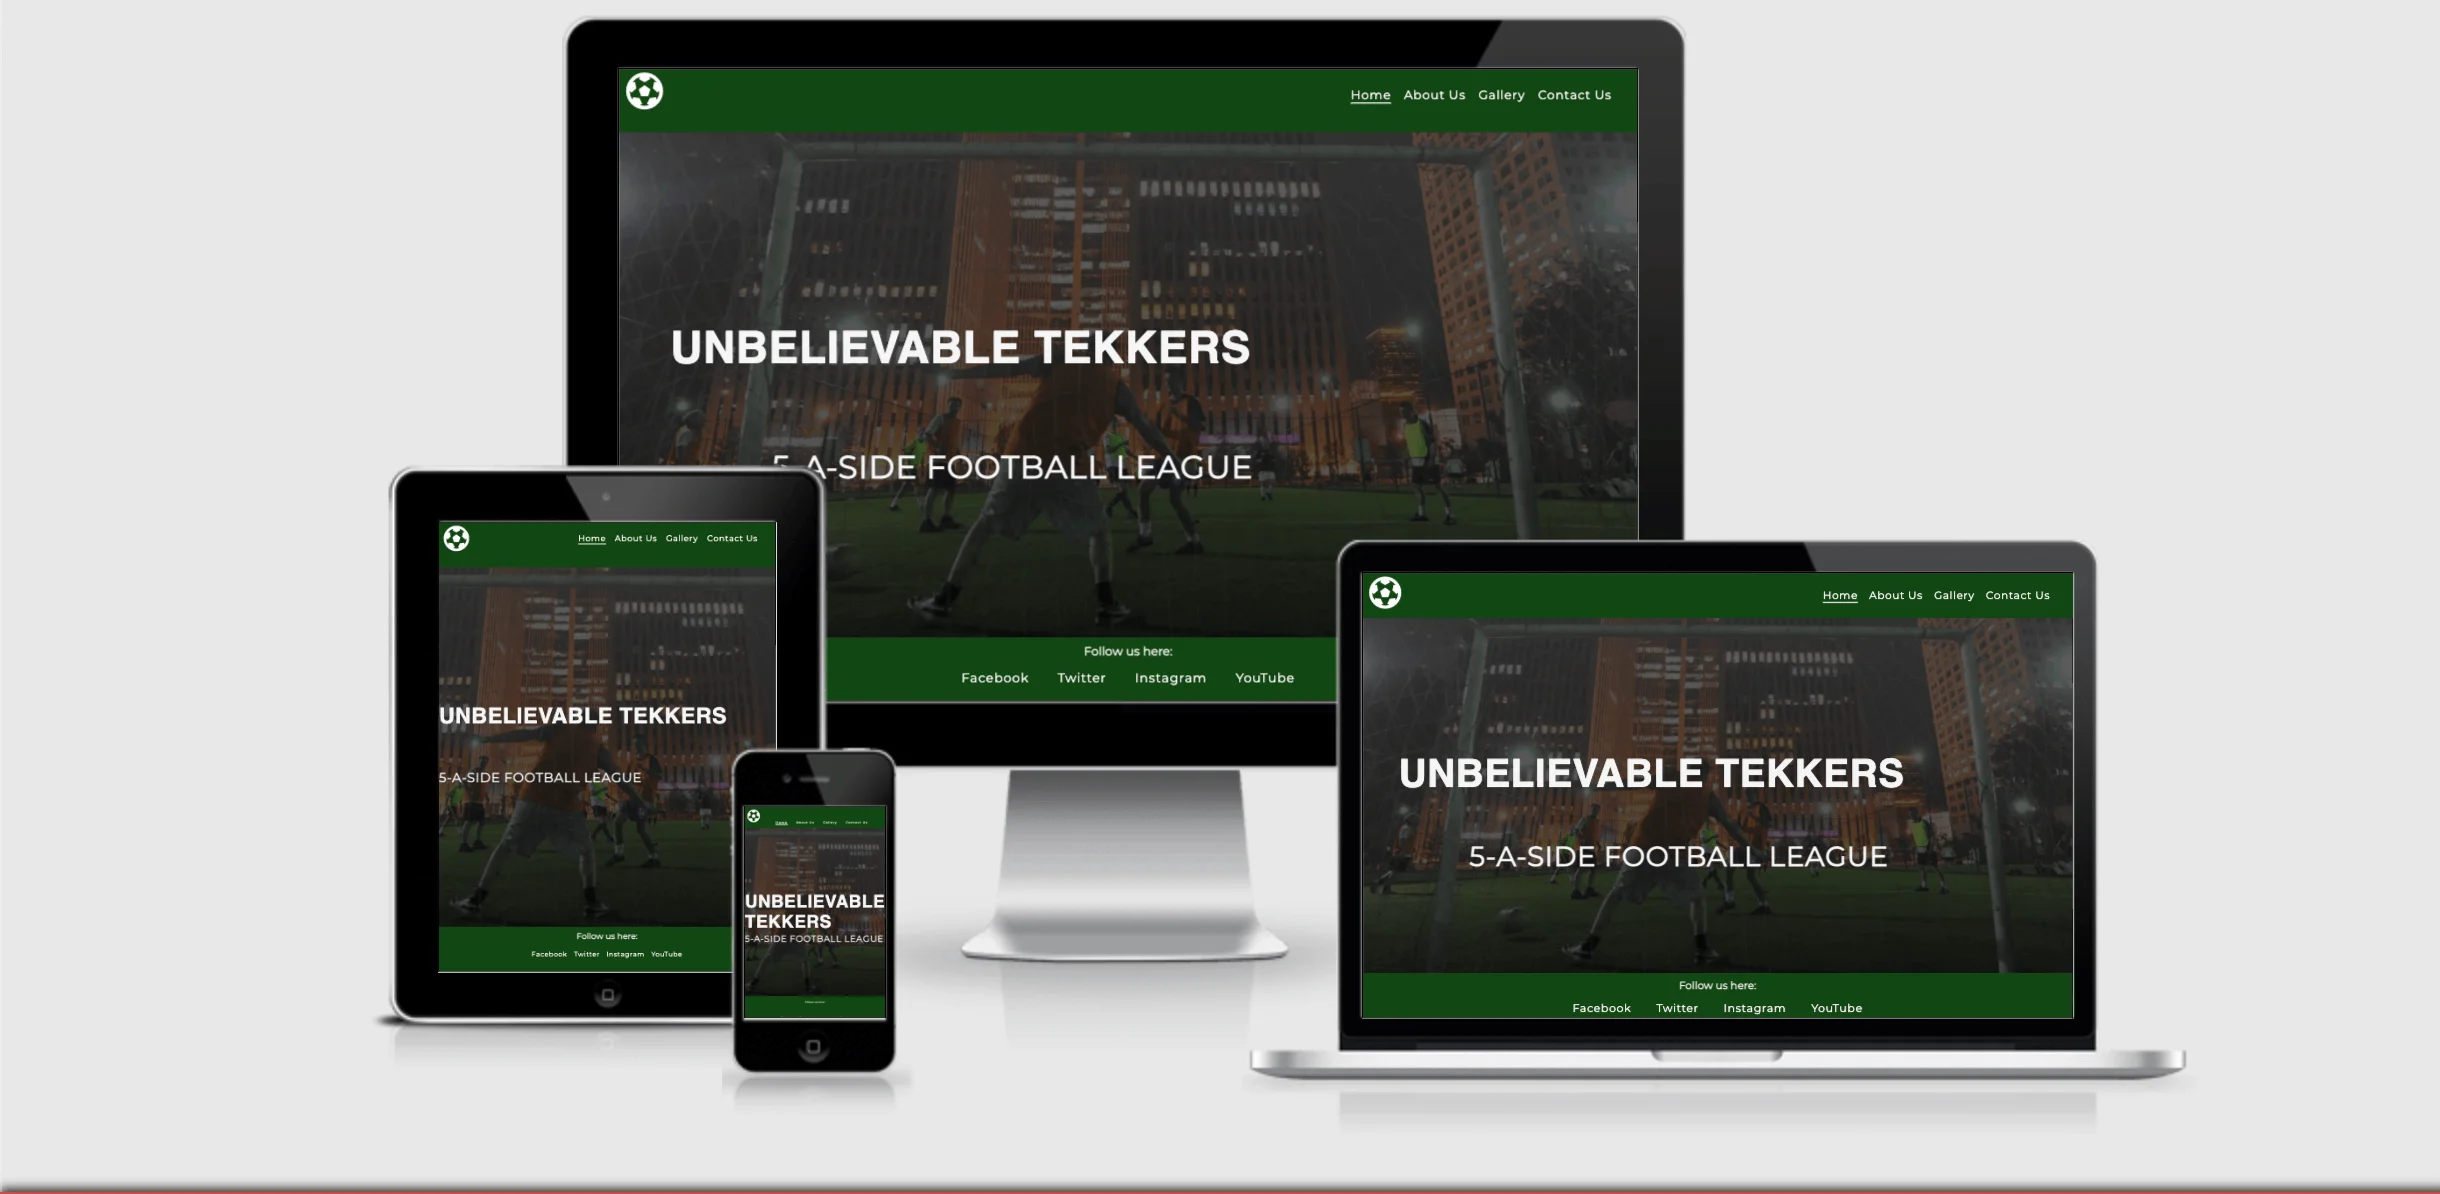
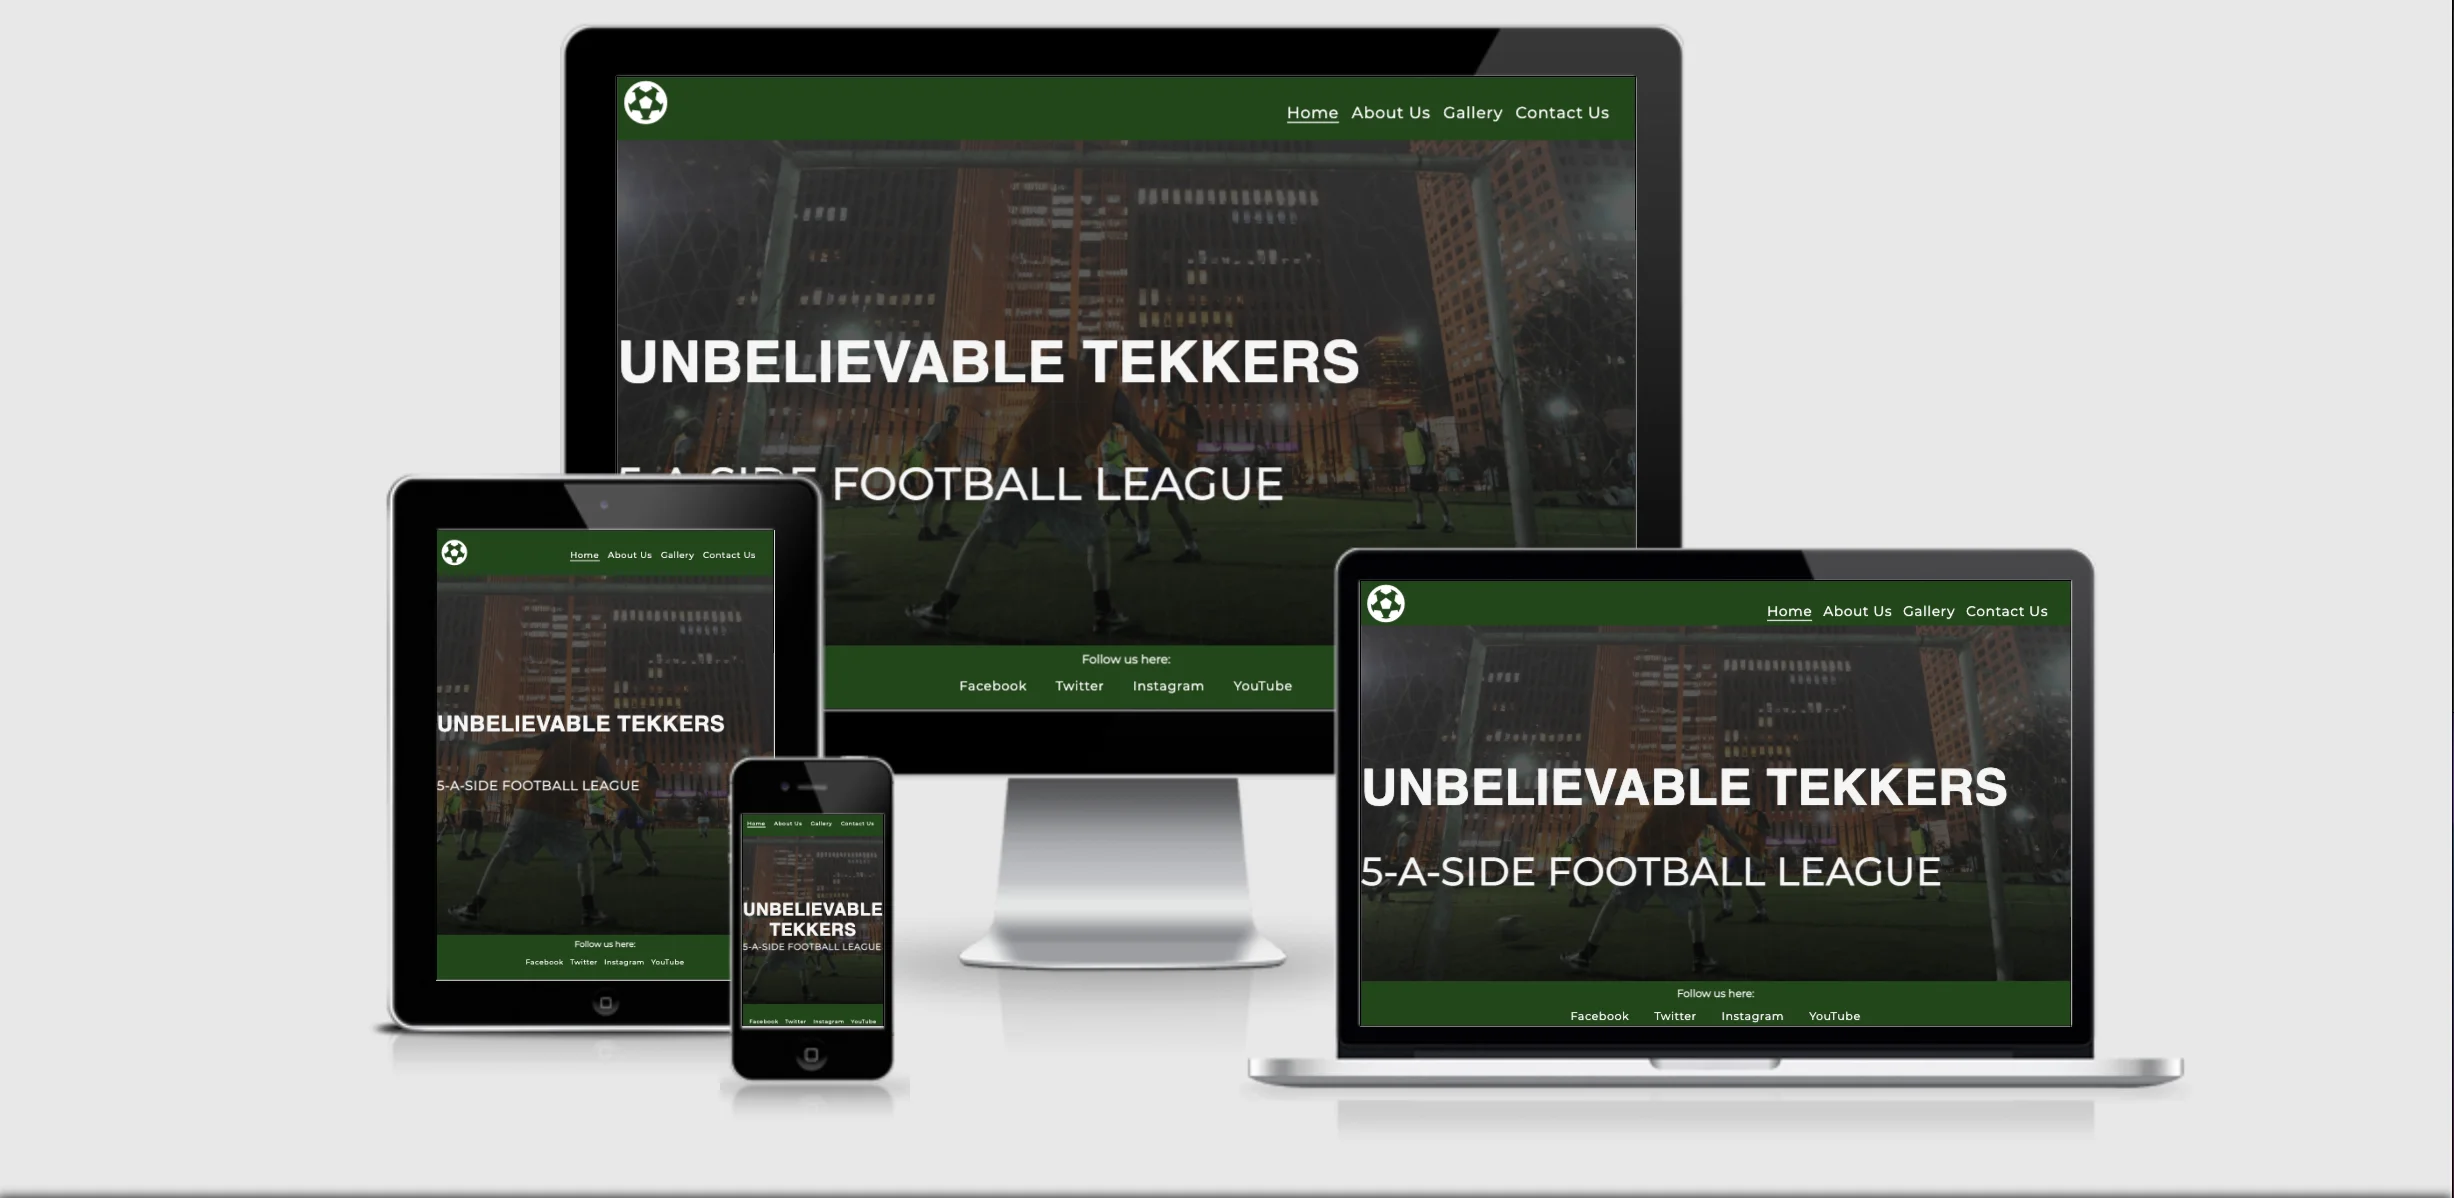
changed mobile reposiveness for gallery

Changed region(s): [[0.1557, 0.0, 0.9033, 0.9296], [0.0, 0.0, 1.0, 1.0]]

diff --git a/assets/css/style.css b/assets/css/style.css
@@ -767,20 +767,21 @@ footer h3 {
         top: 60%;
         font-size: 20px;
         text-align: center;
+
            
     }
 
 /* Footer */
 
-    footer h3 {
-        text-align: center;
-        font-size: 0;
+footer h3 {
+    text-align: center;
+    font-size: 0;
         
         
-    }
+}
 
-    .social a {
-        font-size: 12px;
+.social a {
+    font-size: 12px;
        
 
 }
@@ -795,9 +796,48 @@ footer h3 {
 
 #times {
     font-size: 12px;
-    width: auto;
-    height:max-content;
+    width: 100%;
     margin: 700px auto 100px auto;
-   
 }
+   
+
+
+/* gallery */
+
+iframe {
+    width: 300px;
+    height: 200px;
+    margin: 20% auto;
+    
+}   
+
+.fling-minislide div {
+    animation: fling-minislide 35s infinite;
+    opacity: 0;
+    position: absolute;
+    width: 300px;
+    height: 300px;
+    margin: 10% 2% auto;
+}
+
+.fling-minislide img {
+    position: absolute;
+    width: 100%;
+    height: auto;
+}
+
+/* contact page */
+
+.signup-form {
+  height: 100%;   
+}
+
+.join-button {
+    font-size: 80%; 
+    margin-top: 0;
+    height: 20px;
+    width: 40px;
+    padding: 0;
+}
+
 }
